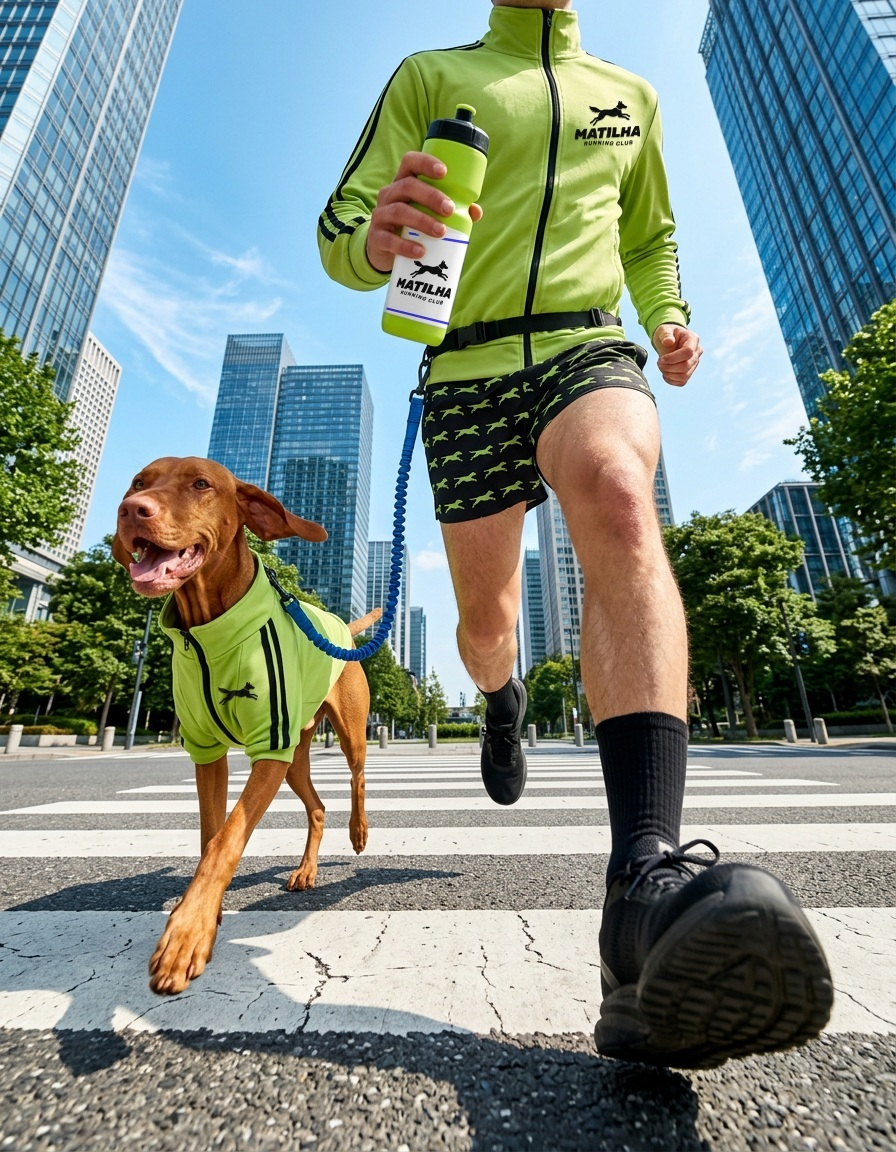
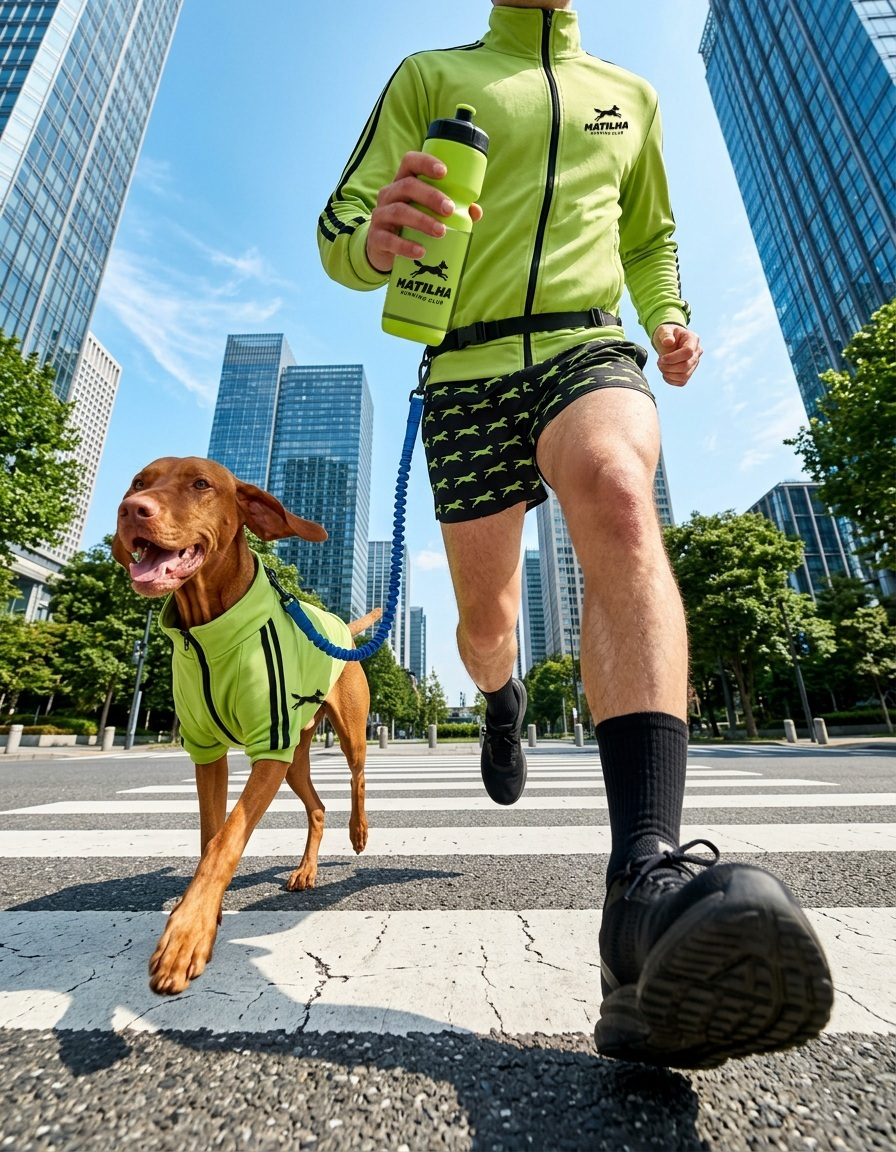
EMS: MATILHA, versão do Canva em alta e ajustes na garrafinha e nos bordados
A versão gerada no Canva, com as referências reais (logo e estampa), foi
exportada em 1728x2304. Na versão da cena gerada no Figma: a garrafa
fica toda verde com o logo preto (o rótulo branco some, a máscara cobre
o rótulo inteiro menos os dedos), o logo do peito fica menor (44 px) e o
cachorro vai bordado na barriga da jaqueta do vizsla.

Claude-Session: https://claude.ai/code/session_01CmCiK9WG5RWJH1hBNUU9U9

diff --git a/Emi/ems-5-direcoes-pet/projeto/marcas/au/mockup/monta_corrida.py b/Emi/ems-5-direcoes-pet/projeto/marcas/au/mockup/monta_corrida.py
@@ -2,9 +2,9 @@
 # correndo com o cachorro, o rosto fora do quadro) com a roupa combinando do Juicy Kibbles (jaqueta verde-limão de listras
 # pretas na pessoa e no vizsla; o short já veio com a estampa de cachorrinhos correndo).
 # Aqui entra a marca de verdade:
-#   1) garrafinha: rótulo branco enrolado no cilindro (homografia + u = asin), a mão fica na frente (máscara pelo branco do rótulo);
-#   2) peito: logo bordado em preto, pequeno, com sombra de relevo e a luz das dobras do tecido;
-#   3) jaqueta do cachorro: só o cachorro do logo, bordado.
+#   1) garrafinha toda verde: o rótulo branco vira o verde da garrafa, com o logo preto, enrolado no cilindro (homografia + u = asin), a mão fica na frente (máscara pelo branco do rótulo);
+#   2) peito: logo bordado em preto, pequeno (44 px), com sombra de relevo e a luz das dobras do tecido;
+#   3) jaqueta do cachorro: só o cachorro do logo, bordado na barriga.
 import numpy as np, cv2
 from PIL import Image
 
@@ -20,12 +20,13 @@ cao = np.asarray(Image.open('../cao-salto.png').convert('RGBA')).astype(np.float
 # ---------- 1) garrafinha ----------
 Q = np.array([(403.5, 273), (470.5, 283.5), (447.5, 378), (384.5, 362)], np.float32)   # cantos do rótulo branco
 AW, AH = 1100, 1000                                          # arte = meia volta do rótulo (pi*r x altura)
-arte = np.ones((AH, AW, 3), np.float32)
+# a garrafa inteira verde (a Emi: "a garrafa tem que ser toda verde com logo preto"): o rótulo vira o verde da própria garrafa
+gar = foto[195:262, 440:478].reshape(-1, 3); gar = gar[(gar[:, 1] > gar[:, 0] + .08) & (gar[:, 1] > .55)]
+verde = np.percentile(gar, 85, axis=0).astype(np.float32)
+arte = np.ones((AH, AW, 3), np.float32) * verde
 lg = cv2.resize(logo, (int(AW * .62), int(AW * .62 * logo.shape[0] / logo.shape[1])), interpolation=cv2.INTER_AREA)
 y0, x0 = (AH - lg.shape[0]) // 2 + 20, (AW - lg.shape[1]) // 2
 a = lg[..., 3:4]; arte[y0:y0 + lg.shape[0], x0:x0 + lg.shape[1]] = arte[y0:y0 + lg.shape[0], x0:x0 + lg.shape[1]] * (1 - a) + lg[..., :3] * a
-cv2.rectangle(arte, (0, 60), (AW, 84), (0.263, 0.259, 1.0), -1)            # filete azul elétrico em cima
-cv2.rectangle(arte, (0, AH - 84), (AW, AH - 60), (0.263, 0.259, 1.0), -1)  # e embaixo
 M = cv2.getPerspectiveTransform(np.float32([[0, 0], [1, 0], [1, 1], [0, 1]]), Q)
 Mi = np.linalg.inv(M)
 S = 4
@@ -34,19 +35,25 @@ ys, xs = np.mgrid[0:(by1 - by0) * S, 0:(bx1 - bx0) * S].astype(np.float32)
 px = bx0 + (xs + .5) / S - .5; py = by0 + (ys + .5) / S - .5
 den = Mi[2, 0] * px + Mi[2, 1] * py + Mi[2, 2]
 s = (Mi[0, 0] * px + Mi[0, 1] * py + Mi[0, 2]) / den; t = (Mi[1, 0] * px + Mi[1, 1] * py + Mi[1, 2]) / den
-dentro = ((s >= 0) & (s <= 1) & (t >= 0) & (t <= 1)).astype(np.float32)
+dentro = ((s >= -.04) & (s <= 1.04) & (t >= -.03) & (t <= 1.03)).astype(np.float32)
 u = (np.arcsin(np.clip(2 * s - 1, -.999, .999)) / np.pi + .5) * (AW - 1)
 v = np.clip(t, 0, 1) * (AH - 1)
 amostra = cv2.remap(arte, u.astype(np.float32), v.astype(np.float32), cv2.INTER_LINEAR)
 sub = foto[by0:by1, bx0:bx1]; sl = sub.mean(2); sat = sub.max(2) - sub.min(2)
-branco = ((sl > 0.45) & (sat < 0.13)).astype(np.float32)
-branco = cv2.morphologyEx(branco, cv2.MORPH_OPEN, np.ones((2, 2), np.uint8))
+branco = ((sl > 0.45) & (sat < 0.13)).astype(np.float32)          # só para a referência de luz
+# máscara: o rótulo inteiro (o quadrilátero alargado 2,5 px, para não sobrar filete branco) menos os dedos (pele)
+pele = np.clip((sub[..., 0] - sub[..., 1] - .07) * 14, 0, 1)        # só pele de verdade (a franja clara em volta dos dedos vira verde)
+pele = cv2.erode(pele, np.ones((2, 2), np.uint8))
+Qg = Q + np.float32([(-2.5, -2.5), (2.5, -2.5), (2.5, 2.5), (-2.5, 2.5)])
+grande = np.zeros(((by1 - by0) * S, (bx1 - bx0) * S), np.uint8)
+cv2.fillPoly(grande, [np.round((Qg - [bx0, by0]) * S).astype(np.int32)], 255, lineType=cv2.LINE_AA)
+quad = cv2.resize(grande, (bx1 - bx0, by1 - by0), interpolation=cv2.INTER_AREA).astype(np.float32) / 255
 ref = np.percentile(sl[branco > 0], 97)
 luz = np.clip(cv2.resize(np.clip(sl / ref, 0, 1.02), ((bx1 - bx0) * S, (by1 - by0) * S), interpolation=cv2.INTER_CUBIC), 0, 1.02)[..., None] ** 2.2
 pint = srgb(lin(amostra) * luz) * dentro[..., None]
 pm = cv2.resize(pint, (bx1 - bx0, by1 - by0), interpolation=cv2.INTER_AREA)
 mq = cv2.resize(dentro, (bx1 - bx0, by1 - by0), interpolation=cv2.INTER_AREA)
-m = (cv2.GaussianBlur(branco, (0, 0), .6) * mq)[..., None]
+m = (quad * (1 - pele))[..., None]
 cor = pm / np.maximum(mq[..., None], 1e-3)
 out[by0:by1, bx0:bx1] = out[by0:by1, bx0:bx1] * (1 - m) + cor * m
 
@@ -67,8 +74,8 @@ def borda(img, cx, cy, largura, giro):
     grao = (np.random.default_rng(3).random(a.shape)[..., None] - .5) * .05
     out[Y0:Y0 + h, X0:X0 + largura] = reg * (1 - a[..., None]) + np.clip(fio + grao, 0, 1) * a[..., None]
 
-borda(logo, 607, 172, 66, 3)       # peito esquerdo da pessoa (lado direito da foto)
-borda(cao, 238, 742, 40, 4)        # jaqueta do vizsla, entre as listras
+borda(logo, 606, 168, 44, 3)       # peito esquerdo da pessoa, pequeno (a Emi: "menor")
+borda(cao, 309, 748, 36, 2)        # barriga da jaqueta do vizsla (a Emi: "na barriga")
 
 Image.fromarray((np.clip(out, 0, 1) * 255).astype(np.uint8)).save('mockup-corrida-matilha.jpg', quality=94)
 print('ok')
